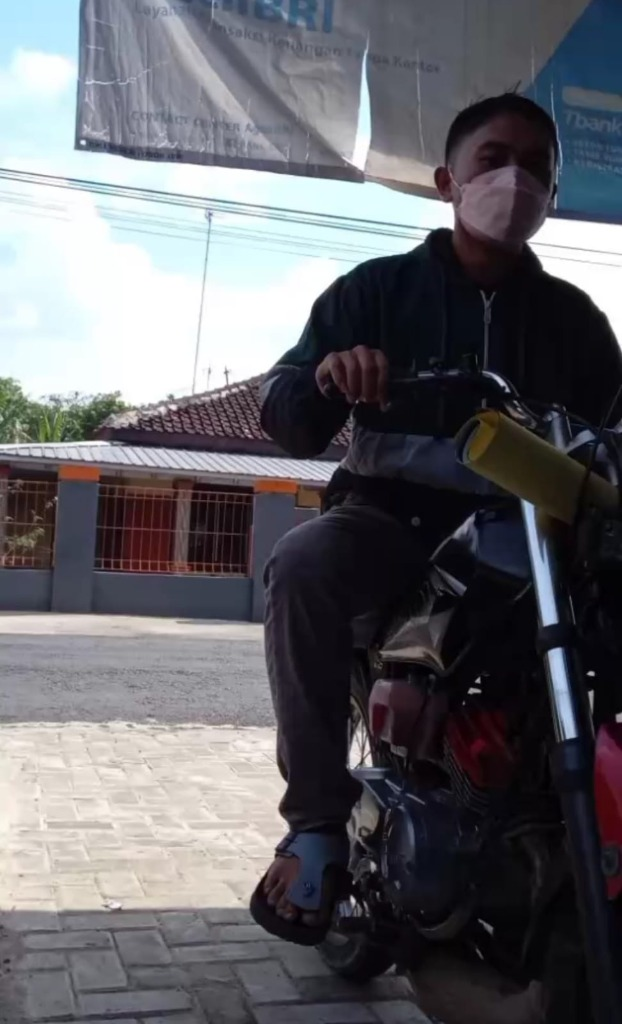
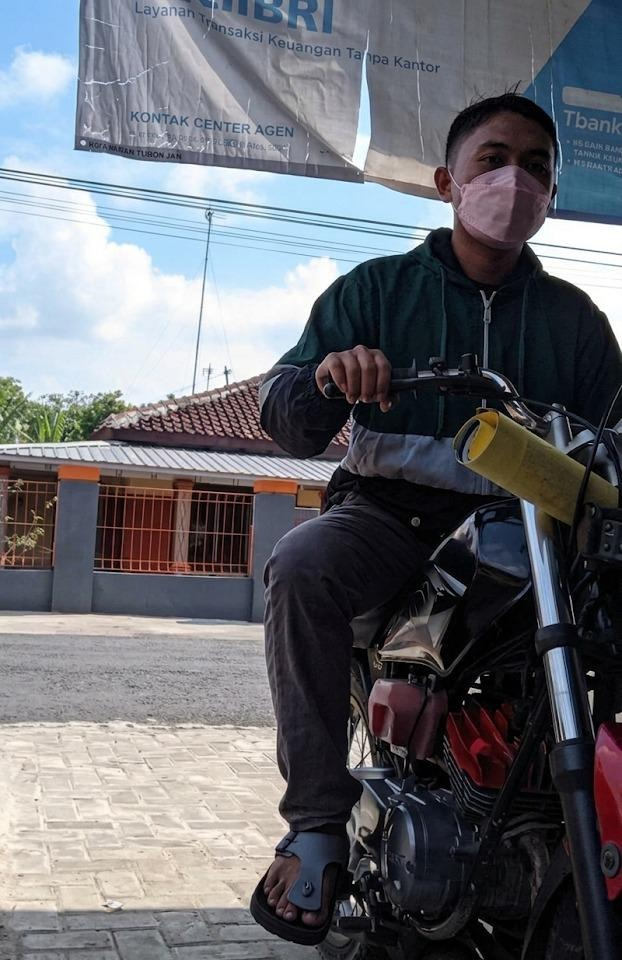
Update profile picture and configure YouTube audio player for background music

diff --git a/app.js b/app.js
@@ -8,7 +8,6 @@ document.addEventListener('DOMContentLoaded', () => {
     const mainContent = document.getElementById('main-content');
     
     const audioControl = document.getElementById('audio-control');
-    const bgMusic = document.getElementById('bg-music');
     const visualizer = document.getElementById('visualizer');
     const audioIcon = document.getElementById('audio-icon');
     const audioStatusText = document.getElementById('audio-status-text');
@@ -22,36 +21,95 @@ document.addEventListener('DOMContentLoaded', () => {
     const ctx = canvas.getContext('2d');
 
     // ==========================================
-    // AUDIO CONTROLLER (INTERACTIVE PLAYBACK)
+    // YOUTUBE AUDIO CONTROLLER (INTERACTIVE PLAYBACK)
     // ==========================================
+    let ytPlayer = null;
     let isMusicPlaying = false;
+    let ytPlayerReady = false;
+    let shouldPlayOnReady = false;
 
-    bgMusic.volume = 0.4; // 0.4 volume is more pleasant and less intrusive
+    // Dynamically load YouTube IFrame API script
+    const tag = document.createElement('script');
+    tag.src = "https://www.youtube.com/iframe_api";
+    const firstScriptTag = document.getElementsByTagName('script')[0];
+    firstScriptTag.parentNode.insertBefore(tag, firstScriptTag);
+
+    // Global callback required by YouTube IFrame API
+    window.onYouTubeIframeAPIReady = function() {
+        ytPlayer = new YT.Player('youtube-audio-player', {
+            height: '100',
+            width: '100',
+            videoId: 'jxGNahu3c_o',
+            playerVars: {
+                'autoplay': 0,
+                'controls': 0,
+                'disablekb': 1,
+                'fs': 0,
+                'rel': 0,
+                'showinfo': 0,
+                'iv_load_policy': 3,
+                'loop': 1,
+                'playlist': 'jxGNahu3c_o' // Necessary for looping individual video
+            },
+            events: {
+                'onReady': onPlayerReady,
+                'onStateChange': onPlayerStateChange
+            }
+        });
+    };
+
+    function onPlayerReady(event) {
+        ytPlayerReady = true;
+        ytPlayer.setVolume(40); // 40% volume is pleasant and not intrusive
+        if (shouldPlayOnReady) {
+            playMusic();
+        }
+    }
+
+    function onPlayerStateChange(event) {
+        // Loop video if it ends
+        if (event.data === YT.PlayerState.ENDED) {
+            ytPlayer.playVideo();
+        }
+    }
 
     function playMusic() {
-        bgMusic.play().then(() => {
-            isMusicPlaying = true;
-            visualizer.classList.add('playing');
-            if (audioIcon) {
-                audioIcon.className = 'fas fa-pause';
+        if (ytPlayerReady && ytPlayer) {
+            try {
+                ytPlayer.playVideo();
+                isMusicPlaying = true;
+                visualizer.classList.add('playing');
+                if (audioIcon) {
+                    audioIcon.className = 'fas fa-pause';
+                }
+                if (audioStatusText) {
+                    audioStatusText.textContent = 'Playing';
+                }
+            } catch (err) {
+                console.error("Failed to play video:", err);
             }
-            if (audioStatusText) {
-                audioStatusText.textContent = 'Playing';
-            }
-        }).catch(err => {
-            console.log("Autoplay blocked by browser. Awaiting user interaction.", err);
-        });
+        } else {
+            shouldPlayOnReady = true;
+        }
     }
 
     function pauseMusic() {
-        bgMusic.pause();
-        isMusicPlaying = false;
-        visualizer.classList.remove('playing');
-        if (audioIcon) {
-            audioIcon.className = 'fas fa-play';
-        }
-        if (audioStatusText) {
-            audioStatusText.textContent = 'Paused';
+        if (ytPlayerReady && ytPlayer) {
+            try {
+                ytPlayer.pauseVideo();
+                isMusicPlaying = false;
+                visualizer.classList.remove('playing');
+                if (audioIcon) {
+                    audioIcon.className = 'fas fa-play';
+                }
+                if (audioStatusText) {
+                    audioStatusText.textContent = 'Paused';
+                }
+            } catch (err) {
+                console.error("Failed to pause video:", err);
+            }
+        } else {
+            shouldPlayOnReady = false;
         }
     }
 

diff --git a/index.html b/index.html
@@ -71,8 +71,8 @@
                         <span class="bar"></span>
                         <span class="bar"></span>
                     </div>
-                    <!-- Audio Source (Royalty-free elegant piano music) -->
-                    <audio id="bg-music" loop src="https://www.chosic.com/wp-content/uploads/2021/04/Autumn-Walk.mp3"></audio>
+                    <!-- YouTube IFrame Player (Hidden off-screen) -->
+                    <div id="youtube-audio-player"></div>
                 </div>
                 <button class="love-trigger-btn" id="header-love-btn">
                     <i class="fas fa-heart"></i> Kirim Cinta

diff --git a/style.css b/style.css
@@ -127,6 +127,16 @@ body {
     cursor: pointer;
 }
 
+#youtube-audio-player {
+    position: absolute;
+    width: 1px;
+    height: 1px;
+    opacity: 0.01;
+    pointer-events: none;
+    bottom: 0;
+    right: 0;
+}
+
 .audio-control-container:hover {
     background: rgba(255, 255, 255, 0.08);
     border-color: var(--color-neon-cyan);
